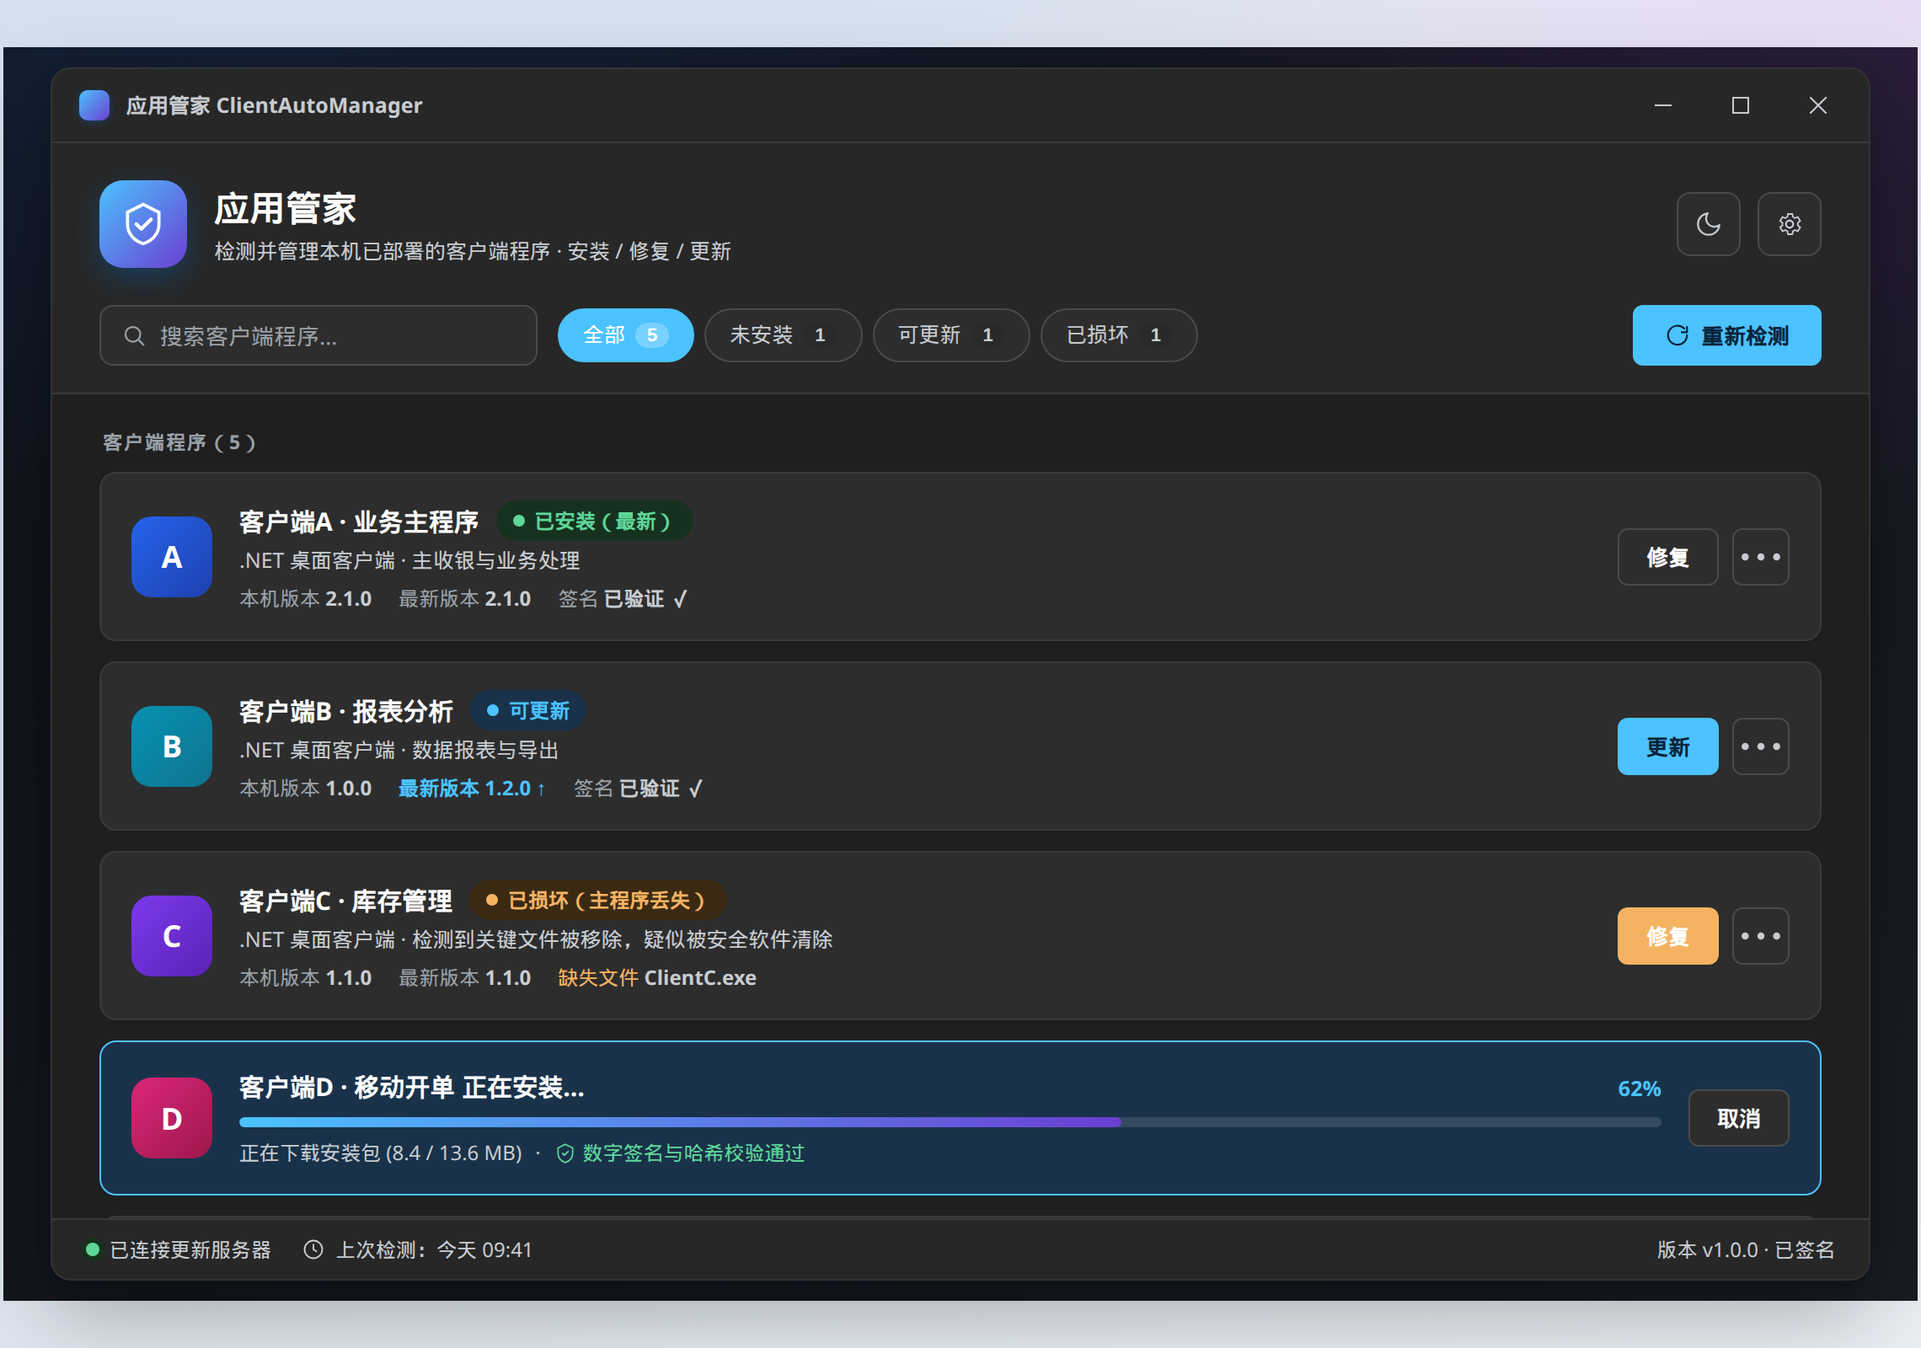
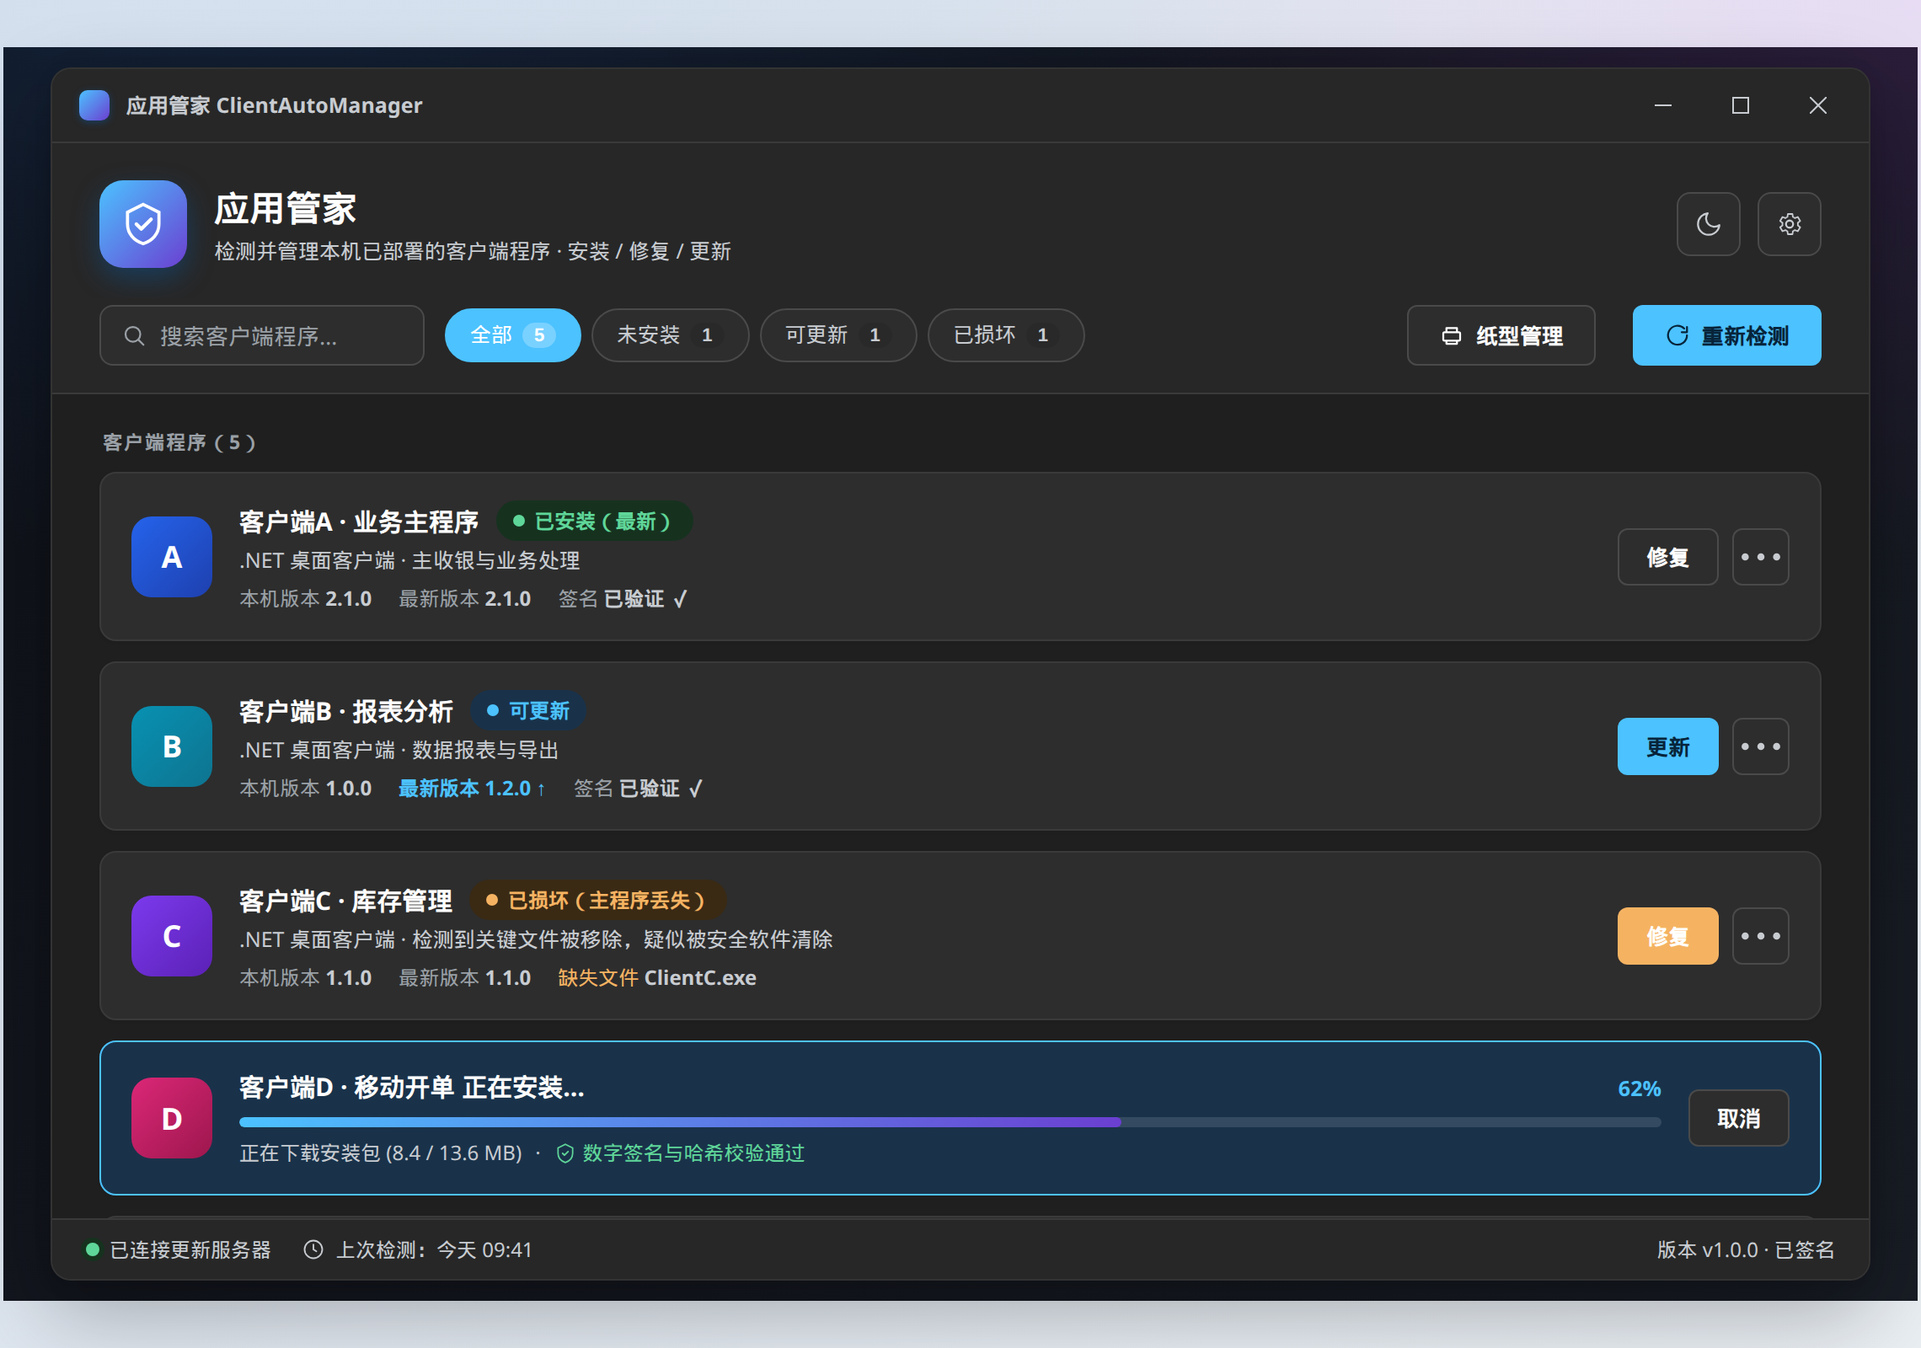
design: 新增纸型管理高保真原型(三类纸型/重复检测/已存在列表)并在首页加入入口

Changed region(s): [[0.218, 0.2188, 0.5917, 0.2812], [0.7474, 0.2188, 0.8096, 0.2812]]

diff --git a/design/paper-forms-mockup.html b/design/paper-forms-mockup.html
@@ -1,0 +1,354 @@
+<!DOCTYPE html>
+<html lang="zh-CN">
+<head>
+<meta charset="UTF-8" />
+<meta name="viewport" content="width=device-width, initial-scale=1.0" />
+<title>纸型管理 · 高保真原型 (Avalonia Fluent 风格)</title>
+<style>
+  :root {
+    --accent: #0067c0; --accent-hover: #1975c5;
+    --bg-app: #f3f3f3; --bg-window: #fbfbfb; --bg-card: #ffffff; --bg-card-hover: #f7f9fc;
+    --stroke: #e6e6e6; --stroke-strong: #d6d6d6;
+    --text-primary: #1a1a1a; --text-secondary: #5f6368; --text-tertiary: #8a8f98;
+    --ok: #0f8a4f; --ok-soft: #e6f4ec; --warn: #b9610a; --warn-soft: #fbeede;
+    --danger: #c42b1c; --danger-soft: #fde7e4; --info: #0067c0; --info-soft: #e5f0fb;
+    --accent-soft: #e5f0fb;
+    --radius-window: 12px; --radius-card: 10px; --radius-btn: 6px;
+    --shadow-window: 0 18px 50px rgba(0,0,0,.28), 0 3px 10px rgba(0,0,0,.12);
+    --font: "Segoe UI", "Microsoft YaHei UI", "PingFang SC", "Microsoft YaHei", system-ui, sans-serif;
+  }
+  body.dark {
+    --accent: #4cc2ff; --accent-hover: #47b1e8;
+    --bg-app: #1f1f1f; --bg-window: #272727; --bg-card: #2d2d2d; --bg-card-hover: #333333;
+    --stroke: #3a3a3a; --stroke-strong: #4a4a4a;
+    --text-primary: #ffffff; --text-secondary: #c8ccd1; --text-tertiary: #9aa0a6;
+    --ok: #5fd699; --ok-soft: #16321f; --warn: #f5b362; --warn-soft: #3a2a14;
+    --danger: #ff99a4; --danger-soft: #3a1d1d; --info: #4cc2ff; --info-soft: #19324a;
+    --accent-soft: #19324a;
+  }
+  * { box-sizing: border-box; margin: 0; padding: 0; }
+  html, body {
+    height: 100%; font-family: var(--font);
+    background: linear-gradient(135deg, #c9d6e8 0%, #dfe6ee 45%, #e9eef3 100%);
+    display: flex; align-items: center; justify-content: center; padding: 28px;
+    color: var(--text-primary); -webkit-font-smoothing: antialiased;
+  }
+  body.dark { background: linear-gradient(135deg, #0e1118 0%, #14171f 50%, #181c24 100%); }
+
+  .window {
+    width: 880px; max-width: 100%; height: 680px;
+    background: var(--bg-window); border-radius: var(--radius-window);
+    box-shadow: var(--shadow-window); overflow: hidden; display: flex; flex-direction: column;
+    border: 1px solid rgba(255,255,255,.5);
+  }
+  body.dark .window { border-color: rgba(255,255,255,.06); }
+
+  /* 标题栏 */
+  .titlebar {
+    height: 44px; display: flex; align-items: center; padding: 0 8px 0 16px;
+    background: var(--bg-window); border-bottom: 1px solid var(--stroke); user-select: none;
+  }
+  .titlebar .left { display: flex; align-items: center; gap: 10px; flex: 1; }
+  .logo-dot { width: 18px; height: 18px; border-radius: 5px;
+    background: linear-gradient(135deg, var(--accent), #6b3fd1); }
+  .titlebar .title-text { font-size: 12.5px; font-weight: 600; color: var(--text-secondary); }
+  .win-controls { display: flex; gap: 2px; }
+  .win-btn { width: 44px; height: 32px; border: none; background: transparent; display: grid;
+    place-items: center; border-radius: 6px; cursor: pointer; color: var(--text-secondary); }
+  .win-btn:hover { background: rgba(0,0,0,.06); }
+  body.dark .win-btn:hover { background: rgba(255,255,255,.08); }
+  .win-btn.close:hover { background: #c42b1c; color: #fff; }
+  .win-btn svg { width: 10px; height: 10px; }
+
+  /* 头部 */
+  .hero { padding: 20px 26px 14px; display: flex; align-items: center; gap: 14px; }
+  .hero .logo { width: 44px; height: 44px; border-radius: 12px;
+    background: linear-gradient(135deg, var(--accent), #6b3fd1); display: grid; place-items: center;
+    color: #fff; flex-shrink: 0; }
+  .hero .logo svg { width: 24px; height: 24px; }
+  .hero h1 { font-size: 19px; font-weight: 700; }
+  .hero p { font-size: 12.5px; color: var(--text-secondary); margin-top: 2px; }
+  .hero .spacer { flex: 1; }
+  .icon-btn { width: 36px; height: 36px; border-radius: 8px; border: 1px solid var(--stroke-strong);
+    background: var(--bg-card); display: grid; place-items: center; cursor: pointer;
+    color: var(--text-secondary); }
+  .icon-btn svg { width: 16px; height: 16px; }
+
+  .body { flex: 1; overflow-y: auto; padding: 0 26px 18px; }
+  .body::-webkit-scrollbar { width: 10px; }
+  .body::-webkit-scrollbar-thumb { background: rgba(0,0,0,.18); border-radius: 6px;
+    border: 3px solid transparent; background-clip: padding-box; }
+  body.dark .body::-webkit-scrollbar-thumb { background: rgba(255,255,255,.18); background-clip: padding-box; }
+
+  /* 新建纸型卡片 */
+  .panel { background: var(--bg-card); border: 1px solid var(--stroke); border-radius: var(--radius-card);
+    padding: 18px 20px; margin-bottom: 16px; }
+  .panel-title { font-size: 13px; font-weight: 700; color: var(--text-secondary);
+    letter-spacing: .5px; margin-bottom: 14px; }
+
+  /* 分段选择器（三类纸型） */
+  .segmented { display: inline-flex; background: var(--bg-app); border: 1px solid var(--stroke-strong);
+    border-radius: 8px; padding: 3px; gap: 3px; margin-bottom: 16px; }
+  .seg { padding: 8px 18px; border-radius: 6px; font-size: 13px; cursor: pointer; border: none;
+    background: transparent; color: var(--text-secondary); font-family: var(--font); font-weight: 500; }
+  .seg.active { background: var(--accent); color: #fff; font-weight: 600;
+    box-shadow: 0 1px 4px rgba(0,103,192,.35); }
+
+  /* 表单 */
+  .form-grid { display: grid; grid-template-columns: 1fr 1fr; gap: 14px 18px; }
+  .field { display: flex; flex-direction: column; gap: 6px; }
+  .field.full { grid-column: 1 / -1; }
+  .field label { font-size: 12.5px; color: var(--text-secondary); }
+  .field .input { height: 38px; border: 1px solid var(--stroke-strong); border-radius: 8px;
+    background: var(--bg-card); padding: 0 12px; font-size: 13.5px; color: var(--text-primary);
+    display: flex; align-items: center; }
+  .field .input.ph { color: var(--text-tertiary); }
+  .units { color: var(--text-tertiary); font-size: 12px; margin-left: auto; }
+
+  .margins { display: grid; grid-template-columns: repeat(4, 1fr); gap: 10px; }
+  .margins .field label { font-size: 11.5px; }
+  .margins .input { height: 34px; }
+
+  .hint { margin-top: 12px; font-size: 12.5px; color: var(--info);
+    background: var(--info-soft); border-radius: 8px; padding: 8px 12px; display: inline-flex; gap: 8px; align-items: center; }
+  .hint svg { width: 15px; height: 15px; }
+
+  /* 重复提示（红字） */
+  .dup { margin-top: 12px; font-size: 12.5px; color: var(--danger);
+    background: var(--danger-soft); border-radius: 8px; padding: 9px 12px; display: none; gap: 8px; align-items: center; }
+  .dup.show { display: inline-flex; }
+  .dup svg { width: 15px; height: 15px; flex-shrink: 0; }
+
+  .actions { margin-top: 16px; display: flex; align-items: center; gap: 12px; }
+  .btn { height: 38px; padding: 0 20px; border-radius: var(--radius-btn); font-size: 13px;
+    font-weight: 600; cursor: pointer; border: 1px solid transparent; font-family: var(--font);
+    display: inline-flex; align-items: center; gap: 7px; }
+  .btn-primary { background: var(--accent); color: #fff; }
+  body.dark .btn-primary { color: #07243a; }
+  .btn-ghost { background: var(--bg-card); color: var(--text-primary); border-color: var(--stroke-strong); }
+  .uac { font-size: 11.5px; color: var(--text-tertiary); display: inline-flex; align-items: center; gap: 5px; }
+  .uac svg { width: 14px; height: 14px; }
+
+  /* 已存在纸型列表 */
+  .list-head { display: flex; align-items: center; gap: 8px; margin: 4px 0 10px; }
+  .list-head .t { font-size: 13px; font-weight: 700; color: var(--text-secondary); letter-spacing: .5px; }
+  .list-head .src { font-size: 11.5px; color: var(--text-tertiary); }
+
+  table { width: 100%; border-collapse: collapse; background: var(--bg-card);
+    border: 1px solid var(--stroke); border-radius: var(--radius-card); overflow: hidden; }
+  thead th { text-align: left; font-size: 11.5px; font-weight: 600; color: var(--text-tertiary);
+    padding: 11px 14px; background: var(--bg-app); border-bottom: 1px solid var(--stroke); }
+  tbody td { padding: 12px 14px; font-size: 13px; border-bottom: 1px solid var(--stroke);
+    color: var(--text-primary); vertical-align: middle; }
+  tbody tr:last-child td { border-bottom: none; }
+  tbody tr:hover { background: var(--bg-card-hover); }
+  .tag { display: inline-block; font-size: 11.5px; padding: 2px 9px; border-radius: 11px; font-weight: 600; }
+  .tag-2 { background: var(--info-soft); color: var(--info); }
+  .tag-3 { background: #f0e8fb; color: #7c3aed; }
+  body.dark .tag-3 { background: #2a1d3a; color: #c4a5f5; }
+  .tag-c { background: var(--ok-soft); color: var(--ok); }
+  .tag-sys { background: #eceef0; color: #5f6368; }
+  body.dark .tag-sys { background: #34373c; color: #b0b4ba; }
+  .row-act { display: inline-flex; gap: 6px; }
+  .mini { height: 28px; padding: 0 12px; border-radius: 6px; font-size: 12px; cursor: pointer;
+    border: 1px solid var(--stroke-strong); background: var(--bg-card); color: var(--text-primary);
+    font-family: var(--font); display: inline-flex; align-items: center; }
+  .mini.danger { color: var(--danger); }
+  .mini.disabled { opacity: .45; cursor: not-allowed; }
+  .builtin-note { font-size: 11.5px; color: var(--text-tertiary); }
+
+  .statusbar { height: 34px; border-top: 1px solid var(--stroke); background: var(--bg-window);
+    display: flex; align-items: center; padding: 0 20px; gap: 16px; font-size: 12px;
+    color: var(--text-secondary); }
+  .statusbar .dot { width: 8px; height: 8px; border-radius: 50%; background: var(--ok); }
+  .statusbar .spacer { flex: 1; }
+</style>
+</head>
+<body>
+  <div class="window">
+    <!-- 标题栏 -->
+    <div class="titlebar">
+      <div class="left">
+        <div class="logo-dot"></div>
+        <span class="title-text">普讯科技应用管家 · 纸型管理</span>
+      </div>
+      <div class="win-controls">
+        <button class="win-btn"><svg viewBox="0 0 10 10"><path d="M0 5h10" stroke="currentColor"/></svg></button>
+        <button class="win-btn"><svg viewBox="0 0 10 10"><rect x="0.5" y="0.5" width="9" height="9" fill="none" stroke="currentColor"/></svg></button>
+        <button class="win-btn close"><svg viewBox="0 0 10 10"><path d="M0 0l10 10M10 0L0 10" stroke="currentColor"/></svg></button>
+      </div>
+    </div>
+
+    <!-- 头部 -->
+    <div class="hero">
+      <div class="logo">
+        <svg viewBox="0 0 24 24" fill="none"><rect x="4" y="9" width="16" height="8" rx="1.2" stroke="currentColor" stroke-width="1.6"/><path d="M7 9V5h10v4M7 17v3h10v-3" stroke="currentColor" stroke-width="1.6" stroke-linejoin="round"/></svg>
+      </div>
+      <div>
+        <h1>纸型管理</h1>
+        <p>管理本机打印服务器的纸型（表单）· 新增 / 编辑 / 删除</p>
+      </div>
+      <div class="spacer"></div>
+      <button class="icon-btn" id="themeBtn" title="切换深浅色">
+        <svg viewBox="0 0 24 24" fill="none"><path d="M21 12.8A9 9 0 1111.2 3a7 7 0 009.8 9.8z" stroke="currentColor" stroke-width="1.6" stroke-linejoin="round"/></svg>
+      </button>
+    </div>
+
+    <div class="body">
+      <!-- 新建纸型 -->
+      <div class="panel">
+        <div class="panel-title">新建纸型</div>
+
+        <div class="segmented">
+          <button class="seg active" data-cat="2" data-parts="2">一式二等份</button>
+          <button class="seg" data-cat="3" data-parts="3">一式三等份</button>
+          <button class="seg" data-cat="c" data-parts="1">自定义</button>
+        </div>
+
+        <div class="form-grid">
+          <div class="field full">
+            <label>纸型名称</label>
+            <div class="input ph">例如：收银小票二联</div>
+          </div>
+          <div class="field">
+            <label>整张纸 宽 (mm)</label>
+            <div class="input">210<span class="units">mm</span></div>
+          </div>
+          <div class="field">
+            <label>整张纸 高 (mm)</label>
+            <div class="input">140<span class="units">mm</span></div>
+          </div>
+
+          <!-- 自定义才显示的边距 -->
+          <div class="field full" id="marginsField" style="display:none">
+            <label>可打印边距 (mm)</label>
+            <div class="margins">
+              <div class="field"><label>上</label><div class="input">0</div></div>
+              <div class="field"><label>下</label><div class="input">0</div></div>
+              <div class="field"><label>左</label><div class="input">0</div></div>
+              <div class="field"><label>右</label><div class="input">0</div></div>
+            </div>
+          </div>
+        </div>
+
+        <!-- 等份提示 -->
+        <div class="hint" id="partHint">
+          <svg viewBox="0 0 24 24" fill="none"><path d="M4 6h16M4 12h16M4 18h16" stroke="currentColor" stroke-width="1.6"/></svg>
+          注册为整张纸尺寸 210 × 140 mm，按 2 等份切分，每份 210 × 70 mm
+        </div>
+
+        <!-- 重复提示（红） -->
+        <div class="dup show" id="dup">
+          <svg viewBox="0 0 24 24" fill="none"><circle cx="12" cy="12" r="9" stroke="currentColor" stroke-width="1.6"/><path d="M12 7v6M12 16.5v.5" stroke="currentColor" stroke-width="1.8" stroke-linecap="round"/></svg>
+          已存在相同尺寸的纸型「收银小票二联」(210×140，2 等份)，不予添加。
+        </div>
+
+        <div class="actions">
+          <button class="btn btn-primary">添加</button>
+          <span class="uac">
+            <svg viewBox="0 0 24 24" fill="none"><path d="M12 3l7 3v5c0 4.5-3 7.5-7 9-4-1.5-7-4.5-7-9V6l7-3z" stroke="currentColor" stroke-width="1.5"/></svg>
+            增 / 改 / 删 需管理员权限（将弹出一次 UAC）
+          </span>
+        </div>
+      </div>
+
+      <!-- 已存在纸型列表 -->
+      <div class="list-head">
+        <span class="t">已存在纸型</span>
+        <span class="src">（来自本机打印服务器，含系统内置）</span>
+      </div>
+      <table>
+        <thead>
+          <tr>
+            <th style="width:30%">名称</th>
+            <th style="width:16%">类别</th>
+            <th style="width:18%">宽 × 高 (mm)</th>
+            <th style="width:10%">等份</th>
+            <th style="width:14%">每份高 (mm)</th>
+            <th style="width:12%">操作</th>
+          </tr>
+        </thead>
+        <tbody>
+          <tr>
+            <td>收银小票二联</td>
+            <td><span class="tag tag-2">一式二等份</span></td>
+            <td>210 × 140</td>
+            <td>2</td>
+            <td>70</td>
+            <td><div class="row-act"><button class="mini">编辑</button><button class="mini danger">删除</button></div></td>
+          </tr>
+          <tr>
+            <td>增值税发票三联</td>
+            <td><span class="tag tag-3">一式三等份</span></td>
+            <td>241 × 280</td>
+            <td>3</td>
+            <td>93.3</td>
+            <td><div class="row-act"><button class="mini">编辑</button><button class="mini danger">删除</button></div></td>
+          </tr>
+          <tr>
+            <td>出库单自定义</td>
+            <td><span class="tag tag-c">自定义</span></td>
+            <td>190 × 120</td>
+            <td>—</td>
+            <td>—</td>
+            <td><div class="row-act"><button class="mini">编辑</button><button class="mini danger">删除</button></div></td>
+          </tr>
+          <tr>
+            <td>A4</td>
+            <td><span class="tag tag-sys">系统内置</span></td>
+            <td>210 × 297</td>
+            <td>—</td>
+            <td>—</td>
+            <td><span class="builtin-note">内置不可改/删</span></td>
+          </tr>
+          <tr>
+            <td>Letter</td>
+            <td><span class="tag tag-sys">系统内置</span></td>
+            <td>215.9 × 279.4</td>
+            <td>—</td>
+            <td>—</td>
+            <td><span class="builtin-note">内置不可改/删</span></td>
+          </tr>
+        </tbody>
+      </table>
+    </div>
+
+    <!-- 状态栏 -->
+    <div class="statusbar">
+      <span class="dot"></span>
+      <span>打印后台服务正常 · 共 5 个纸型（3 个自建 / 2 个系统内置）</span>
+      <span class="spacer"></span>
+      <span>普讯科技应用管家 v1.0.0</span>
+    </div>
+  </div>
+
+  <script>
+    document.getElementById('themeBtn').addEventListener('click', () => document.body.classList.toggle('dark'));
+
+    const segs = document.querySelectorAll('.seg');
+    const partHint = document.getElementById('partHint');
+    const marginsField = document.getElementById('marginsField');
+    const dup = document.getElementById('dup');
+
+    function widthVal(){ return 210; }
+    function heightVal(){ return 140; }
+
+    segs.forEach(s => s.addEventListener('click', () => {
+      segs.forEach(x => x.classList.remove('active'));
+      s.classList.add('active');
+      const parts = parseInt(s.dataset.parts, 10);
+      const isCustom = s.dataset.cat === 'c';
+      marginsField.style.display = isCustom ? '' : 'none';
+      if (isCustom) {
+        partHint.style.display = 'none';
+      } else {
+        partHint.style.display = 'inline-flex';
+        const h = heightVal();
+        partHint.querySelector('svg').nextSibling; // keep icon
+        partHint.lastChild.textContent =
+          ` 注册为整张纸尺寸 ${widthVal()} × ${h} mm，按 ${parts} 等份切分，每份 ${widthVal()} × ${(h/parts).toFixed(parts===3?1:0)} mm`;
+      }
+    }));
+  </script>
+</body>
+</html>

diff --git a/design/app-manager-mockup.html b/design/app-manager-mockup.html
@@ -395,6 +395,10 @@
         <button class="chip">已损坏 <span class="count">1</span></button>
       </div>
       <div class="spacer"></div>
+      <button class="btn btn-ghost" id="paperBtn" style="margin-right:10px">
+        <svg viewBox="0 0 24 24" fill="none"><rect x="4" y="9" width="16" height="8" rx="1.2" stroke="currentColor" stroke-width="1.8"/><path d="M7 9V5h10v4M7 17v3h10v-3" stroke="currentColor" stroke-width="1.8" stroke-linejoin="round"/></svg>
+        纸型管理
+      </button>
       <button class="btn btn-primary" id="refreshBtn">
         <svg id="refreshIcon" viewBox="0 0 24 24" fill="none"><path d="M21 12a9 9 0 11-2.6-6.4M21 4v5h-5" stroke="currentColor" stroke-width="1.8" stroke-linecap="round" stroke-linejoin="round"/></svg>
         重新检测
